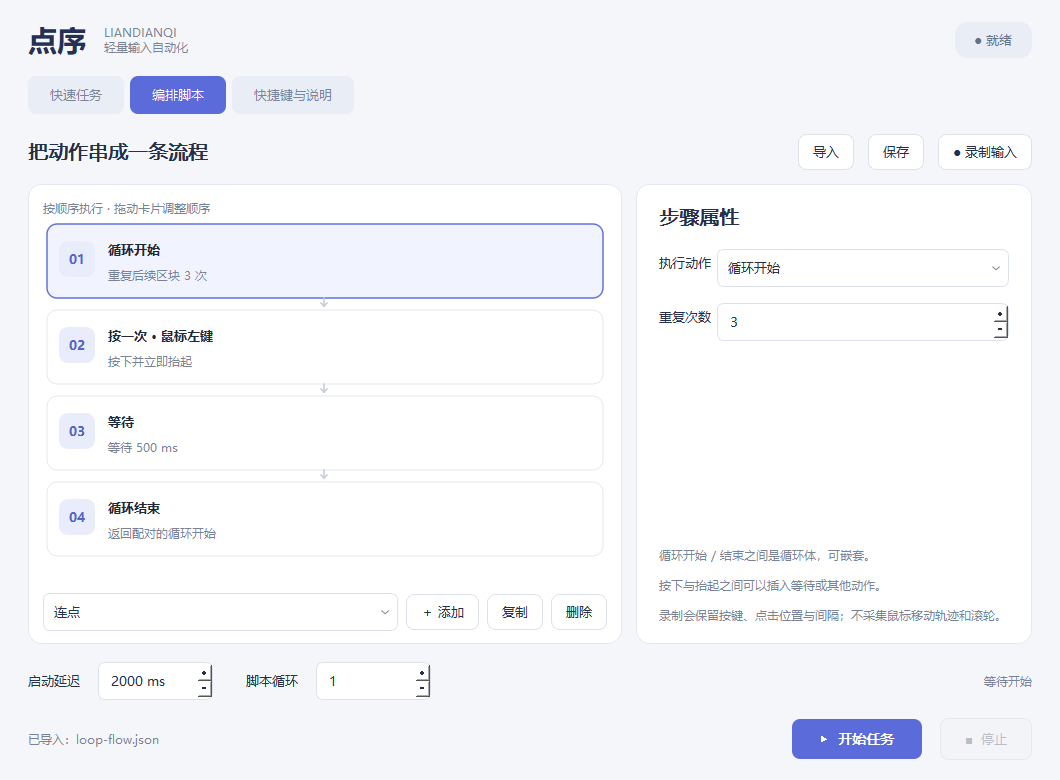
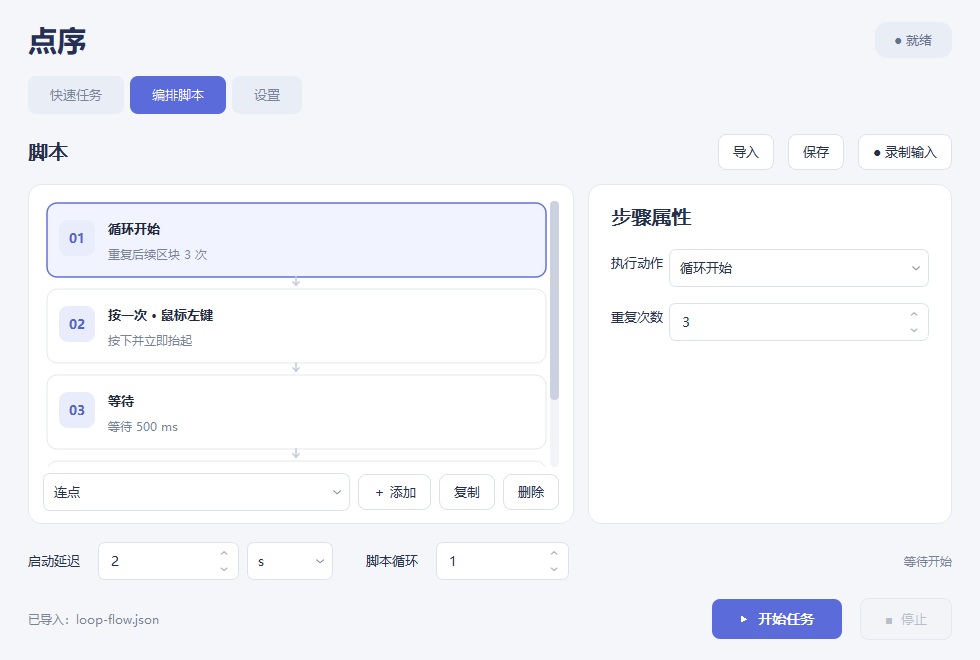
ui: modernize numeric controls and simplify interface

diff --git a/src/window.cpp b/src/window.cpp
@@ -22,8 +22,8 @@
 static QLabel *label(const QString &s, const char *name=nullptr) {
     auto *w=new QLabel(s); w->setWordWrap(true); if(name) w->setObjectName(name); return w;
 }
-static QSpinBox *spin(int low, int high, int value, const QString &suffix={}) {
-    auto *w=new QSpinBox; w->setRange(low,high); w->setValue(value); w->setSuffix(suffix); w->setMinimumWidth(115); w->setButtonSymbols(QAbstractSpinBox::PlusMinus); return w;
+static QSpinBox *spin(int low, int high, int value) {
+    auto *w=new QSpinBox; w->setRange(low,high); w->setValue(value); w->setMinimumWidth(115); w->setButtonSymbols(QAbstractSpinBox::UpDownArrows); return w;
 }
 static QWidget *row(std::initializer_list<QWidget *> widgets) {
     auto *w=new QWidget; auto *l=new QHBoxLayout(w); l->setContentsMargins(0,0,0,0); l->setSpacing(8);
@@ -41,8 +41,6 @@ public:
         setWindowTitle(position?QStringLiteral("拾取屏幕坐标"):QStringLiteral("采集输入")); setMinimumWidth(440);
         auto *l=new QVBoxLayout(this); l->setContentsMargins(28,24,28,24); l->setSpacing(18);
         l->addWidget(label(position?QStringLiteral("点击需要执行的位置"):QStringLiteral("按下任意键或鼠标按钮"),"sectionTitle"));
-        l->addWidget(label(position?QStringLiteral("可以点击其他窗口。将记录屏幕物理坐标，支持多屏和负坐标。"):
-            QStringLiteral("可采集左右 Ctrl / Shift / Alt、小键盘、功能键及鼠标按钮。输入会正常传递到当前窗口。"),"muted"));
         auto *cancel=new QPushButton(QStringLiteral("取消")); l->addWidget(cancel); connect(cancel,&QPushButton::clicked,this,&QDialog::reject);
         connect(&monitor,&InputMonitor::observed,this,[this,position](InputKey k,bool down,QPoint p,quint64) {
             if(!down || !armed || (position && !k.mouse)) return;
@@ -80,13 +78,13 @@ StepEditor::StepEditor(bool isQuick,QWidget *parent):QWidget(parent) {
     }
     captureKey=new QPushButton(QStringLiteral("采集")); captureKey->setToolTip(QStringLiteral("采集实际键盘或鼠标输入"));
     inputRow=row({input,captureKey}); form->addRow(QStringLiteral("输入按键"),inputRow);
-    interval=spin(5,3600000,100,QStringLiteral(" ms")); interval->setObjectName(isQuick?"quickInterval":"stepInterval");
-    intervalRow=row({interval,label(QStringLiteral("两次连点的间隔"),"muted")}); form->addRow(QStringLiteral("连点间隔"),intervalRow);
-    count=spin(0,1000000,0); count->setSpecialValueText(QStringLiteral("持续 / 无限"));
+    interval=new TimeField(5,3600000,100); interval->setObjectName(isQuick?"quickInterval":"stepInterval");
+    intervalRow=row({interval}); form->addRow(QStringLiteral("连点间隔"),intervalRow);
+    count=spin(0,1000000,0); count->setSpecialValueText(QStringLiteral("无限"));
     countRow=row({count}); form->addRow(QStringLiteral("重复次数"),countRow);
-    duration=spin(0,86400000,1000,QStringLiteral(" ms")); duration->setSpecialValueText(QStringLiteral("直到停止"));
+    duration=new TimeField(0,86400000,1000); duration->setObjectName(isQuick?"quickDuration":"stepDuration"); duration->setSpecialValueText(QStringLiteral("直到停止"));
     durationRow=row({duration}); form->addRow(QStringLiteral("持续时间"),durationRow);
-    fixed=new QCheckBox(QStringLiteral("在指定坐标执行鼠标动作")); form->addRow(QString(),fixed);
+    fixed=new QCheckBox(QStringLiteral("固定鼠标位置")); form->addRow(QString(),fixed);
     x=spin(-100000,100000,0); y=spin(-100000,100000,0); capturePosition=new QPushButton(QStringLiteral("拾取"));
     x->setMinimumWidth(78); y->setMinimumWidth(78);
     positionRow=new QWidget; auto *pl=new QVBoxLayout(positionRow); pl->setContentsMargins(0,0,0,0); pl->setSpacing(8);
@@ -96,7 +94,8 @@ StepEditor::StepEditor(bool isQuick,QWidget *parent):QWidget(parent) {
         QString error; InputKey k; if(InputKey::parse(input->currentData().toJsonObject(),k,error)) currentKey=k;
         updateFields(); if(!loading) emit changed();
     });
-    for(auto *w:{interval,duration,count,x,y}) connect(w,QOverload<int>::of(&QSpinBox::valueChanged),this,[this] { if(!loading) emit changed(); });
+    for(auto *w:{interval,duration}) connect(w,&TimeField::valueChanged,this,[this] { if(!loading) emit changed(); });
+    for(auto *w:{count,x,y}) connect(w,QOverload<int>::of(&QSpinBox::valueChanged),this,[this] { if(!loading) emit changed(); });
     connect(fixed,&QCheckBox::toggled,this,[this] { updateFields(); if(!loading) emit changed(); });
     connect(captureKey,&QPushButton::clicked,this,[this] { capture(false); });
     connect(capturePosition,&QPushButton::clicked,this,[this] { capture(true); });
@@ -125,7 +124,7 @@ void StepEditor::updateFields() {
     auto visible=[form](QWidget *w,bool show) { w->setVisible(show); if(auto *l=form->labelForField(w)) l->setVisible(show); };
     visible(inputRow,isInputAction(a)); visible(intervalRow,a==Action::Repeat); visible(countRow,a==Action::Repeat || a==Action::LoopBegin);
     visible(durationRow,a==Action::Hold || a==Action::Wait);
-    duration->setSpecialValueText(a==Action::Wait?QStringLiteral("0 ms"):QStringLiteral("直到停止"));
+    duration->setSpecialValueText(a==Action::Wait?QString():QStringLiteral("直到停止"));
     bool mouseInput=isInputAction(a) && currentKey.mouse;
     fixed->setVisible(mouseInput); visible(positionRow,a==Action::Move || (mouseInput && fixed->isChecked()));
 }
@@ -165,13 +164,12 @@ QIcon Window::appIcon() {
 }
 Window::Window(QWidget *parent,bool testing):QMainWindow(parent),engine(sink,this),hotkeys(this),monitor(this),testMode(testing) {
     monitor.setObjectName("recordingMonitor");
-    setWindowTitle(QStringLiteral("点序 · 连点器")); setWindowIcon(appIcon()); resize(1060,780); setMinimumSize(960,720);
+    setWindowTitle(QStringLiteral("点序 · 连点器")); setWindowIcon(appIcon()); resize(980,660); setMinimumSize(920,620);
     setStyleSheet(QStringLiteral(R"(
         QWidget { font-family: 'Microsoft YaHei UI', 'Segoe UI'; font-size: 10pt; color: #25304a; }
         QMainWindow { background: #f5f6fa; }
         QLabel#brand { font-size: 22pt; font-weight: 700; color: #253054; }
         QLabel#sectionTitle { font-size: 14pt; font-weight: 600; }
-        QLabel#hero { font-size: 22pt; font-weight: 600; }
         QLabel#muted { color: #798397; font-size: 9pt; }
         QLabel#status { background: #e8edf6; color: #657089; border-radius: 12px; padding: 6px 16px; }
         QFrame#card { background: white; border: 1px solid #e5e8f0; border-radius: 14px; }
@@ -184,8 +182,15 @@ Window::Window(QWidget *parent,bool testing):QMainWindow(parent),engine(sink,thi
         QPushButton#primary:disabled { background: #afb6dc; }
         QPushButton#stop { color: #be5564; background: #fff4f5; border-color: #f0cfd5; padding: 12px 24px; }
         QPushButton#stop:disabled { color: #b9bdc8; background: #f3f4f7; border-color: #e5e8ef; }
-        QComboBox, QSpinBox, QKeySequenceEdit { background: white; border: 1px solid #dce1ec; border-radius: 7px; padding: 7px 10px; min-height: 22px; }
-        QComboBox:focus, QSpinBox:focus, QKeySequenceEdit:focus { border-color: #6675db; }
+        QComboBox, QSpinBox, QDoubleSpinBox, QKeySequenceEdit { background: white; border: 1px solid #dce1ec; border-radius: 7px; padding: 7px 10px; min-height: 22px; }
+        QComboBox:focus, QSpinBox:focus, QDoubleSpinBox:focus, QKeySequenceEdit:focus { border-color: #6675db; }
+        QSpinBox, QDoubleSpinBox { padding-right: 31px; selection-background-color: #e8ecff; selection-color: #25304a; }
+        QSpinBox::up-button, QDoubleSpinBox::up-button { subcontrol-origin: border; subcontrol-position: top right; width: 26px; height: 18px; border: none; border-top-right-radius: 7px; background: transparent; margin: 2px 2px 0 0; }
+        QSpinBox::down-button, QDoubleSpinBox::down-button { subcontrol-origin: border; subcontrol-position: bottom right; width: 26px; height: 18px; border: none; border-bottom-right-radius: 7px; background: transparent; margin: 0 2px 2px 0; }
+        QSpinBox::up-button:hover, QSpinBox::down-button:hover, QDoubleSpinBox::up-button:hover, QDoubleSpinBox::down-button:hover { background: #eef1fc; }
+        QSpinBox::up-button:pressed, QSpinBox::down-button:pressed, QDoubleSpinBox::up-button:pressed, QDoubleSpinBox::down-button:pressed { background: #dde3fb; }
+        QSpinBox::up-arrow, QDoubleSpinBox::up-arrow { image: url(:/icons/chevron-up.png); width: 10px; height: 10px; }
+        QSpinBox::down-arrow, QDoubleSpinBox::down-arrow { image: url(:/icons/chevron.png); width: 10px; height: 10px; }
         QComboBox::drop-down { border: none; width: 23px; }
         QComboBox::down-arrow { image: url(:/icons/chevron.png); width: 12px; height: 12px; }
         QComboBox QAbstractItemView { background: white; selection-background-color: #e8ecff; selection-color: #25304a; }
@@ -199,27 +204,19 @@ Window::Window(QWidget *parent,bool testing):QMainWindow(parent),engine(sink,thi
         QScrollBar::add-line:vertical, QScrollBar::sub-line:vertical { height: 0; }
     )"));
     auto *central=new QWidget; setCentralWidget(central); auto *root=new QVBoxLayout(central); root->setContentsMargins(28,22,28,20); root->setSpacing(18);
-    auto *header=new QHBoxLayout; header->addWidget(label(QStringLiteral("点序"),"brand")); header->addWidget(label(QStringLiteral("LIANDIANQI\n轻量输入自动化"),"muted")); header->addStretch();
+    auto *header=new QHBoxLayout; header->addWidget(label(QStringLiteral("点序"),"brand")); header->addStretch();
     status=label(QStringLiteral("● 就绪"),"status"); header->addWidget(status); root->addLayout(header);
     tabs=new QTabWidget; tabs->setObjectName("tabs"); root->addWidget(tabs,1);
     quickPage=new QWidget; auto *ql=new QVBoxLayout(quickPage); ql->setContentsMargins(0,22,0,0); ql->setSpacing(15);
-    ql->addWidget(label(QStringLiteral("一个按键，交给点序。"),"hero"));
-    ql->addWidget(label(QStringLiteral("选择鼠标或键盘输入，设置动作，按快捷键即可启停。"),"muted"));
     auto *quickBody=new QHBoxLayout; auto *qcard=card(); auto *qcl=new QVBoxLayout(qcard); qcl->setContentsMargins(24,22,24,22); qcl->setSpacing(20);
     qcl->addWidget(label(QStringLiteral("快速任务"),"sectionTitle")); quick=new StepEditor(true); qcl->addWidget(quick); qcl->addStretch(); quickBody->addWidget(qcard,3);
-    auto *guide=card(); auto *gl=new QVBoxLayout(guide); gl->setContentsMargins(22,24,22,24); gl->setSpacing(20);
-    gl->addWidget(label(QStringLiteral("轻松开始"),"sectionTitle"));
-    gl->addWidget(label(QStringLiteral("01  选择输入\n\n可以直接选键，也可以点「采集」读取真实输入。"),"muted"));
-    gl->addWidget(label(QStringLiteral("02  设置动作\n\n0 次表示持续连点；长按 0 ms 表示保持到停止。"),"muted"));
-    gl->addWidget(label(QStringLiteral("03  切到目标窗口\n\n启动延迟为你留出切换时间。鼠标默认跟随当前位置。"),"muted"));
-    gl->addStretch(); gl->addWidget(label(QStringLiteral("点 × 会停止任务、释放按键并退出程序。"),"muted")); quickBody->addWidget(guide,2); ql->addLayout(quickBody,1);
+    ql->addLayout(quickBody,1);
     tabs->addTab(quickPage,QStringLiteral("快速任务"));
     flowPage=new QWidget; auto *fl=new QVBoxLayout(flowPage); fl->setContentsMargins(0,20,0,0); fl->setSpacing(14);
-    auto *flowTop=new QHBoxLayout; flowTop->addWidget(label(QStringLiteral("把动作串成一条流程"),"sectionTitle")); flowTop->addStretch();
+    auto *flowTop=new QHBoxLayout; flowTop->addWidget(label(QStringLiteral("脚本"),"sectionTitle")); flowTop->addStretch();
     auto *load=new QPushButton(QStringLiteral("导入")); auto *save=new QPushButton(QStringLiteral("保存")); recordButton=new QPushButton(QStringLiteral("● 录制输入"));
     flowTop->addWidget(load); flowTop->addWidget(save); flowTop->addWidget(recordButton); fl->addLayout(flowTop);
     auto *flowBody=new QHBoxLayout; auto *listCard=card(); auto *ll=new QVBoxLayout(listCard); ll->setContentsMargins(14,16,14,12);
-    ll->addWidget(label(QStringLiteral("按顺序执行 · 拖动卡片调整顺序"),"muted"));
     flow=new QListWidget; flow->setObjectName("flow"); flow->setItemDelegate(new StepDelegate(flow)); flow->setDragDropMode(QAbstractItemView::InternalMove);
     flow->setDefaultDropAction(Qt::MoveAction); flow->setSelectionMode(QAbstractItemView::SingleSelection); ll->addWidget(flow,1);
     auto *addCombo=new QComboBox; for(int i=0;i<9;++i) addCombo->addItem(actionName(Action(i)),i);
@@ -227,7 +224,6 @@ Window::Window(QWidget *parent,bool testing):QMainWindow(parent),engine(sink,thi
     ll->addWidget(row({addCombo,add,duplicate,remove})); flowBody->addWidget(listCard,3);
     auto *editCard=card(); auto *el=new QVBoxLayout(editCard); el->setContentsMargins(22,20,22,20); el->setSpacing(20);
     el->addWidget(label(QStringLiteral("步骤属性"),"sectionTitle")); editor=new StepEditor(false); el->addWidget(editor); el->addStretch();
-    el->addWidget(label(QStringLiteral("循环开始 / 结束之间是循环体，可嵌套。\n\n按下与抬起之间可以插入等待或其他动作。\n\n录制会保留按键、点击位置与间隔；不采集鼠标移动轨迹和滚轮。"),"muted"));
     flowBody->addWidget(editCard,2); fl->addLayout(flowBody,1); tabs->addTab(flowPage,QStringLiteral("编排脚本"));
     auto *settings=new QWidget; auto *sl=new QVBoxLayout(settings); sl->setContentsMargins(0,22,0,0); sl->setSpacing(18);
     auto *scard=card(); auto *scl=new QVBoxLayout(scard); scl->setContentsMargins(24,22,24,24); scl->setSpacing(16);
@@ -235,20 +231,18 @@ Window::Window(QWidget *parent,bool testing):QMainWindow(parent),engine(sink,thi
     toggleShortcut=new QKeySequenceEdit(QKeySequence(Qt::Key_F6)); stopShortcut=new QKeySequenceEdit(QKeySequence(Qt::Key_F8)); recordShortcut=new QKeySequenceEdit(QKeySequence(Qt::Key_F7));
     sf->addRow(QStringLiteral("启动 / 停止任务"),toggleShortcut); sf->addRow(QStringLiteral("立即停止"),stopShortcut); sf->addRow(QStringLiteral("开始 / 结束录制"),recordShortcut); scl->addLayout(sf);
     minimizeOnStart=new QCheckBox(QStringLiteral("启动任务时自动最小化")); scl->addWidget(minimizeOnStart); auto *apply=new QPushButton(QStringLiteral("应用快捷键")); scl->addWidget(apply,0,Qt::AlignLeft); sl->addWidget(scard);
-    auto *info=card(); auto *il=new QVBoxLayout(info); il->setContentsMargins(24,22,24,22); il->setSpacing(12);
-    il->addWidget(label(QStringLiteral("使用说明"),"sectionTitle"));
-    il->addWidget(label(QStringLiteral("• F6 启停任务，F8 立即停止，F7 启停录制（可修改）。\n• 使用自己的快捷键作为连点目标时，请先更改快捷键，避免任务自行触发。\n• 坐标使用 Windows 屏幕物理像素；更改显示器布局后需重新拾取。\n• 系统安全界面和部分游戏不接受模拟输入；管理员窗口要求同级权限。\n• FloatingBall 的「启 / 停」控制程序进程；任务由本窗口或快捷键控制。\n• 空闲时无输入钩子、无执行定时器；不安装服务、不创建开机项。"),"muted")); sl->addWidget(info); sl->addStretch(); tabs->addTab(settings,QStringLiteral("快捷键与说明"));
-    auto *options=new QHBoxLayout; delay=spin(0,60000,2000,QStringLiteral(" ms")); delay->setObjectName("startDelay");
+    sl->addStretch(); tabs->addTab(settings,QStringLiteral("设置"));
+    auto *options=new QHBoxLayout; delay=new TimeField(0,60000,2000); delay->setObjectName("startDelay"); delay->setFixedWidth(235);
     rounds=spin(0,1000000,1); rounds->setSpecialValueText(QStringLiteral("无限")); options->addWidget(label(QStringLiteral("启动延迟"))); options->addWidget(delay);
     options->addSpacing(15); options->addWidget(label(QStringLiteral("脚本循环"))); options->addWidget(rounds); options->addStretch(); stats=label(QStringLiteral("等待开始"),"muted"); options->addWidget(stats); root->addLayout(options);
-    auto *footer=new QHBoxLayout; message=label(QStringLiteral("默认 F6 启停 · F8 立即停止 · F7 录制"),"muted"); footer->addWidget(message,1);
+    auto *footer=new QHBoxLayout; message=label(QStringLiteral("F6 启停 · F8 停止 · F7 录制"),"muted"); footer->addWidget(message,1);
     startButton=new QPushButton(QStringLiteral("▶  开始任务")); startButton->setObjectName("primary"); stopButton=new QPushButton(QStringLiteral("■  停止")); stopButton->setObjectName("stop"); stopButton->setEnabled(false);
     footer->addWidget(startButton); footer->addWidget(stopButton); root->addLayout(footer);
     connect(startButton,&QPushButton::clicked,this,&Window::start);
-    connect(stopButton,&QPushButton::clicked,this,[this] { endRecording(); engine.stop(); notice(QStringLiteral("已停止，程序按住的键已释放")); });
+    connect(stopButton,&QPushButton::clicked,this,[this] { endRecording(); engine.stop(); notice(QStringLiteral("已停止")); });
     connect(&engine,&Engine::stateChanged,this,&Window::updateState);
     connect(&engine,&Engine::failed,this,[this](const QString &s) { notice(s,true); });
-    connect(&engine,&Engine::finished,this,[this] { notice(QStringLiteral("任务完成，程序按住的键已释放")); stats->setText(QStringLiteral("完成 · %1 次动作").arg(engine.eventCount())); });
+    connect(&engine,&Engine::finished,this,[this] { notice(QStringLiteral("任务完成")); stats->setText(QStringLiteral("完成 · %1 次动作").arg(engine.eventCount())); });
     connect(&engine,&Engine::progress,this,[this](int step,int round,quint64 count) {
         stats->setText(step<0?QStringLiteral("启动延迟中…"):QStringLiteral("第 %1 轮 · 步骤 %2 · %3 次动作").arg(round+1).arg(step+1).arg(count));
         if(tabs->currentIndex()==1 && step!=currentRunningStep) {
@@ -322,7 +316,7 @@ void Window::start() {
         for(int id:{1,2,3}) { UINT m,v; if(Hotkeys::decode(hotkeys.sequence(id),m,v) && int(v)==step.key.code) { notice(QStringLiteral("目标按键与快捷键冲突，请先修改快捷键"),true); return; } }
     }
     QString error; if(!engine.start(s,error)) { notice(error,true); return; }
-    notice(QStringLiteral("切换到目标窗口，按 %1 可随时停止").arg(hotkeys.sequence(2).toString(QKeySequence::NativeText)));
+    notice(QStringLiteral("运行中"));
     if(minimizeOnStart->isChecked()) showMinimized();
 }
 void Window::updateState(bool running) {
@@ -343,7 +337,7 @@ void Window::record() {
     editor->setEnabled(false); flow->setEnabled(false); startButton->setEnabled(false); stopButton->setEnabled(true); quickPage->setEnabled(false); delay->setEnabled(false); rounds->setEnabled(false);
     // Keep only the recording button actionable in the flow toolbar.
     for(auto *b:flowPage->findChildren<QPushButton *>()) if(b!=recordButton) b->setEnabled(false);
-    status->setText(QStringLiteral("● 录制中")); notice(QStringLiteral("正在追加记录，按 %1 结束；鼠标移动与滚轮不会记录").arg(hotkeys.sequence(3).toString(QKeySequence::NativeText)));
+    status->setText(QStringLiteral("● 录制中")); notice(QStringLiteral("录制中"));
 }
 void Window::appendRecorded(InputKey key,bool down,QPoint position,quint64 time) {
     if(!recording) return;
@@ -368,7 +362,7 @@ void Window::endRecording() {
     for(const auto &key:recordingHeld.values()) { if(flow->count()>=10000) break; Step s; s.action=Action::Up; s.key=key; refreshItem(new QListWidgetItem(flow),s); }
     recordingHeld.clear(); recordButton->setText(QStringLiteral("● 录制输入"));
     for(auto *b:flowPage->findChildren<QPushButton *>()) b->setEnabled(true);
-    flow->setEnabled(true); editor->setEnabled(flow->currentItem()!=nullptr); updateState(false); notice(QStringLiteral("录制完成，可调整步骤后保存或运行"));
+    flow->setEnabled(true); editor->setEnabled(flow->currentItem()!=nullptr); updateState(false); notice(QStringLiteral("录制完成"));
 }
 void Window::settingsLoad() {
     QSettings st; restoreGeometry(st.value("geometry").toByteArray());

diff --git a/src/controls.cpp b/src/controls.cpp
@@ -1,0 +1,50 @@
+#include "controls.h"
+#include <QHBoxLayout>
+#include <QSignalBlocker>
+#include <cmath>
+
+class CompactDoubleSpinBox : public QDoubleSpinBox {
+protected:
+    QString textFromValue(double value) const override {
+        QString text=QDoubleSpinBox::textFromValue(value);
+        const QString separator=locale().decimalPoint();
+        if(text.contains(separator)) {
+            while(text.endsWith('0')) text.chop(1);
+            if(text.endsWith(separator)) text.chop(separator.size());
+        }
+        return text;
+    }
+};
+
+TimeField::TimeField(int low,int high,int initial,QWidget *parent)
+    : QWidget(parent),minimumMs(low),maximumMs(high) {
+    auto *layout=new QHBoxLayout(this); layout->setContentsMargins(0,0,0,0); layout->setSpacing(8);
+    number=new CompactDoubleSpinBox; number->setObjectName("number"); number->setMinimumWidth(105);
+    number->setButtonSymbols(QAbstractSpinBox::UpDownArrows); number->setKeyboardTracking(false);
+    unit=new QComboBox; unit->setObjectName("unit"); unit->addItem("ms",1); unit->addItem("s",1000); unit->addItem("min",60000);
+    unit->setFixedWidth(86); unit->setToolTip(QStringLiteral("时间单位"));
+    layout->addWidget(number,1); layout->addWidget(unit);
+    setValue(initial);
+    connect(number,QOverload<double>::of(&QDoubleSpinBox::valueChanged),this,[this] { emit valueChanged(value()); });
+    connect(unit,QOverload<int>::of(&QComboBox::currentIndexChanged),this,[this](int index) {
+        number->interpretText(); // Commit an edited value before converting units.
+        int milliseconds=value(); display(milliseconds,index);
+    });
+}
+int TimeField::value() const {
+    return qBound(minimumMs,int(std::llround(number->value()*scale)),maximumMs);
+}
+void TimeField::display(int milliseconds,int index) {
+    QSignalBlocker blockNumber(number),blockUnit(unit);
+    scale=unit->itemData(index).toInt(); unit->setCurrentIndex(index);
+    number->setDecimals(index==0?0:index==1?3:6);
+    number->setRange(double(minimumMs)/scale,double(maximumMs)/scale);
+    number->setSingleStep(index==0?1.0:0.1);
+    number->setValue(double(qBound(minimumMs,milliseconds,maximumMs))/scale);
+}
+void TimeField::setValue(int milliseconds) {
+    int previous=value();
+    display(milliseconds,milliseconds>=60000?2:milliseconds>=1000?1:0);
+    if(value()!=previous) emit valueChanged(value());
+}
+void TimeField::setSpecialValueText(const QString &text) { number->setSpecialValueText(text); }

diff --git a/tests/test_clicker.cpp b/tests/test_clicker.cpp
@@ -118,6 +118,19 @@ private slots:
         QVERIFY(w.loadScript(f.fileName())); QCOMPARE(w.currentScript().json(),s.json());
         w.close(); QVERIFY(!w.execution().timerActive()); QVERIFY(!w.execution().running());
     }
+    void timeUnitsPreserveScriptTiming() {
+        StepEditor editor(false); Step s; s.action=Action::Wait; s.duration=1234; editor.setValue(s);
+        auto *time=editor.findChild<TimeField *>("stepDuration"); QVERIFY(time);
+        auto *units=time->findChild<QComboBox *>("unit"); auto *number=time->findChild<QDoubleSpinBox *>("number");
+        QCOMPARE(units->currentText(),QString("s")); QCOMPARE(number->value(),1.234);
+        units->setCurrentIndex(0); QCOMPARE(number->value(),1234.0); QCOMPARE(editor.value().duration,1234);
+        units->setCurrentIndex(2); QCOMPARE(editor.value().duration,1234);
+        number->setValue(0.125); QCOMPARE(editor.value().duration,7500);
+        units->setCurrentIndex(1); QCOMPARE(number->value(),7.5); QCOMPARE(editor.value().duration,7500);
+        number->setValue(0); QCOMPARE(editor.value().duration,0); QVERIFY(number->specialValueText().isEmpty());
+        TimeField interval(5,3600000,5); interval.findChild<QComboBox *>("unit")->setCurrentIndex(2); QCOMPARE(interval.value(),5);
+        interval.setValue(3600000); QCOMPARE(interval.value(),3600000);
+    }
     void recordingBalancesAndSkipsAutorepeat() {
         Window w(nullptr,true); w.show(); auto *list=w.findChild<QListWidget *>("flow"); list->clear();
         auto *tabs=w.findChild<QTabWidget *>("tabs"); tabs->setCurrentIndex(1);

diff --git a/src/window.h b/src/window.h
@@ -1,5 +1,6 @@
 #pragma once
 #include "engine.h"
+#include "controls.h"
 #include <QMainWindow>
 #include <QComboBox>
 #include <QCheckBox>
@@ -24,7 +25,8 @@ private:
     void capture(bool position);
     void setKey(const InputKey &);
     QComboBox *action, *input;
-    QSpinBox *interval, *duration, *count, *x, *y;
+    TimeField *interval, *duration;
+    QSpinBox *count, *x, *y;
     QCheckBox *fixed;
     QPushButton *captureKey, *capturePosition;
     QWidget *inputRow, *intervalRow, *durationRow, *countRow, *positionRow;
@@ -70,7 +72,8 @@ private:
     QListWidget *flow;
     QLabel *status, *message, *stats;
     QPushButton *startButton, *stopButton, *recordButton;
-    QSpinBox *delay, *rounds;
+    TimeField *delay;
+    QSpinBox *rounds;
     QKeySequenceEdit *toggleShortcut, *stopShortcut, *recordShortcut;
     QCheckBox *minimizeOnStart;
     bool recording=false, closing=false, testMode=false;

diff --git a/src/controls.h b/src/controls.h
@@ -1,0 +1,20 @@
+#pragma once
+#include <QComboBox>
+#include <QDoubleSpinBox>
+#include <QWidget>
+
+class TimeField : public QWidget {
+    Q_OBJECT
+public:
+    explicit TimeField(int minimumMs, int maximumMs, int initialMs, QWidget *parent=nullptr);
+    int value() const;
+    void setValue(int milliseconds);
+    void setSpecialValueText(const QString &text);
+signals:
+    void valueChanged(int milliseconds);
+private:
+    void display(int milliseconds, int index);
+    QDoubleSpinBox *number;
+    QComboBox *unit;
+    int minimumMs, maximumMs, scale=1;
+};

diff --git a/src/main.cpp b/src/main.cpp
@@ -14,7 +14,7 @@
 
 int main(int argc,char **argv) {
     QApplication app(argc,argv); app.setQuitOnLastWindowClosed(true);
-    app.setApplicationName("LianDianQi"); app.setOrganizationName("DianXu"); app.setApplicationVersion("1.0.0");
+    app.setApplicationName("LianDianQi"); app.setOrganizationName("DianXu"); app.setApplicationVersion("1.0.1");
     const QString testSettings=qEnvironmentVariable("LIANDIANQI_TEST_SETTINGS");
     if(!testSettings.isEmpty()) {
         QSettings::setDefaultFormat(QSettings::IniFormat);

diff --git a/scripts/make-icon.py b/scripts/make-icon.py
@@ -14,3 +14,6 @@ image.save(root / "assets" / "app.ico", sizes=[(16,16),(24,24),(32,32),(48,48),(
 arrow = Image.new("RGBA", (48, 48))
 ImageDraw.Draw(arrow).line((10, 18, 24, 31, 38, 18), fill="#798397", width=5)
 arrow.resize((12, 12), Image.Resampling.LANCZOS).save(root / "assets" / "chevron.png")
+up = Image.new("RGBA", (48, 48))
+ImageDraw.Draw(up).line((10, 30, 24, 17, 38, 30), fill="#798397", width=5)
+up.resize((12, 12), Image.Resampling.LANCZOS).save(root / "assets" / "chevron-up.png")

diff --git a/docs/USAGE.md b/docs/USAGE.md
@@ -11,7 +11,8 @@
 4. 按“开始任务”或 F6，利用默认 2 秒启动延迟切到目标窗口。
 5. F6 再次按下会停止，F8 可立即停止。长按和“按下”停止后会释放。
 
-鼠标默认在当前位置执行；勾选“在指定坐标执行鼠标动作”后可拾取目标位置。
+鼠标默认在当前位置执行；勾选“固定鼠标位置”后可拾取目标位置。
+时间字段使用独立的 ms / s / min 下拉框，切换单位会换算当前数值。
 拾取时点击其他窗口会正常传递该点击。坐标是屏幕物理像素，支持多屏和负坐标。
 
 ## 脚本流程
@@ -28,7 +29,7 @@
 
 ## 快捷键
 
-默认 F6 启停任务、F8 立即停止、F7 启停录制。在“快捷键与说明”页修改后点“应用快捷键”。
+默认 F6 启停任务、F8 立即停止、F7 启停录制。在“设置”页修改后点“应用快捷键”。
 占用冲突会提示并恢复原快捷键。F12 为 Windows 调试器保留键。
 目标按键如果与已注册快捷键相同，会阻止运行，请先修改快捷键。
 采集弹窗出现时，任务快捷键暂不触发动作，仍可采集 F6 / F7 / F8。

diff --git a/docs/TESTING.md b/docs/TESTING.md
@@ -1,4 +1,13 @@
-# 1.0.0 验证记录
+# 验证记录
+
+## 1.0.1
+
+QtTest：21 项通过，0 失败（包含初始化与清理）。
+新增时间单位转换验证：ms / s / min 切换保持实际时长，编辑小数正确换算为脚本的毫秒整数，
+最小连点间隔和最长时长边界保持有效。旧版本脚本和设置继续使用毫秒存储。
+已重新检查 Windows 界面的数值按钮、单位下拉框及简化后的快速任务/脚本页面。
+
+## 1.0.0
 
 本机 Windows 11 x64，Qt 6.5.3 / MSVC 2019 Release，2026-10-04。
 

diff --git a/README.md b/README.md
@@ -56,7 +56,7 @@ powershell.exe -NoProfile -ExecutionPolicy Bypass -File scripts\build.ps1
 ```powershell
 python scripts\prepare-licenses.py
 powershell.exe -NoProfile -ExecutionPolicy Bypass -File scripts\package.ps1
-python tests\native_smoke.py --exe dist\DianXu-1.0.0-windows-x64\LianDianQi.exe
+python tests\native_smoke.py --exe dist\DianXu-1.0.1-windows-x64\LianDianQi.exe
 ```
 
 便携包包含运行依赖、示例、接入脚本、使用说明和第三方许可。ZIP 附有 SHA-256 校验文件。
